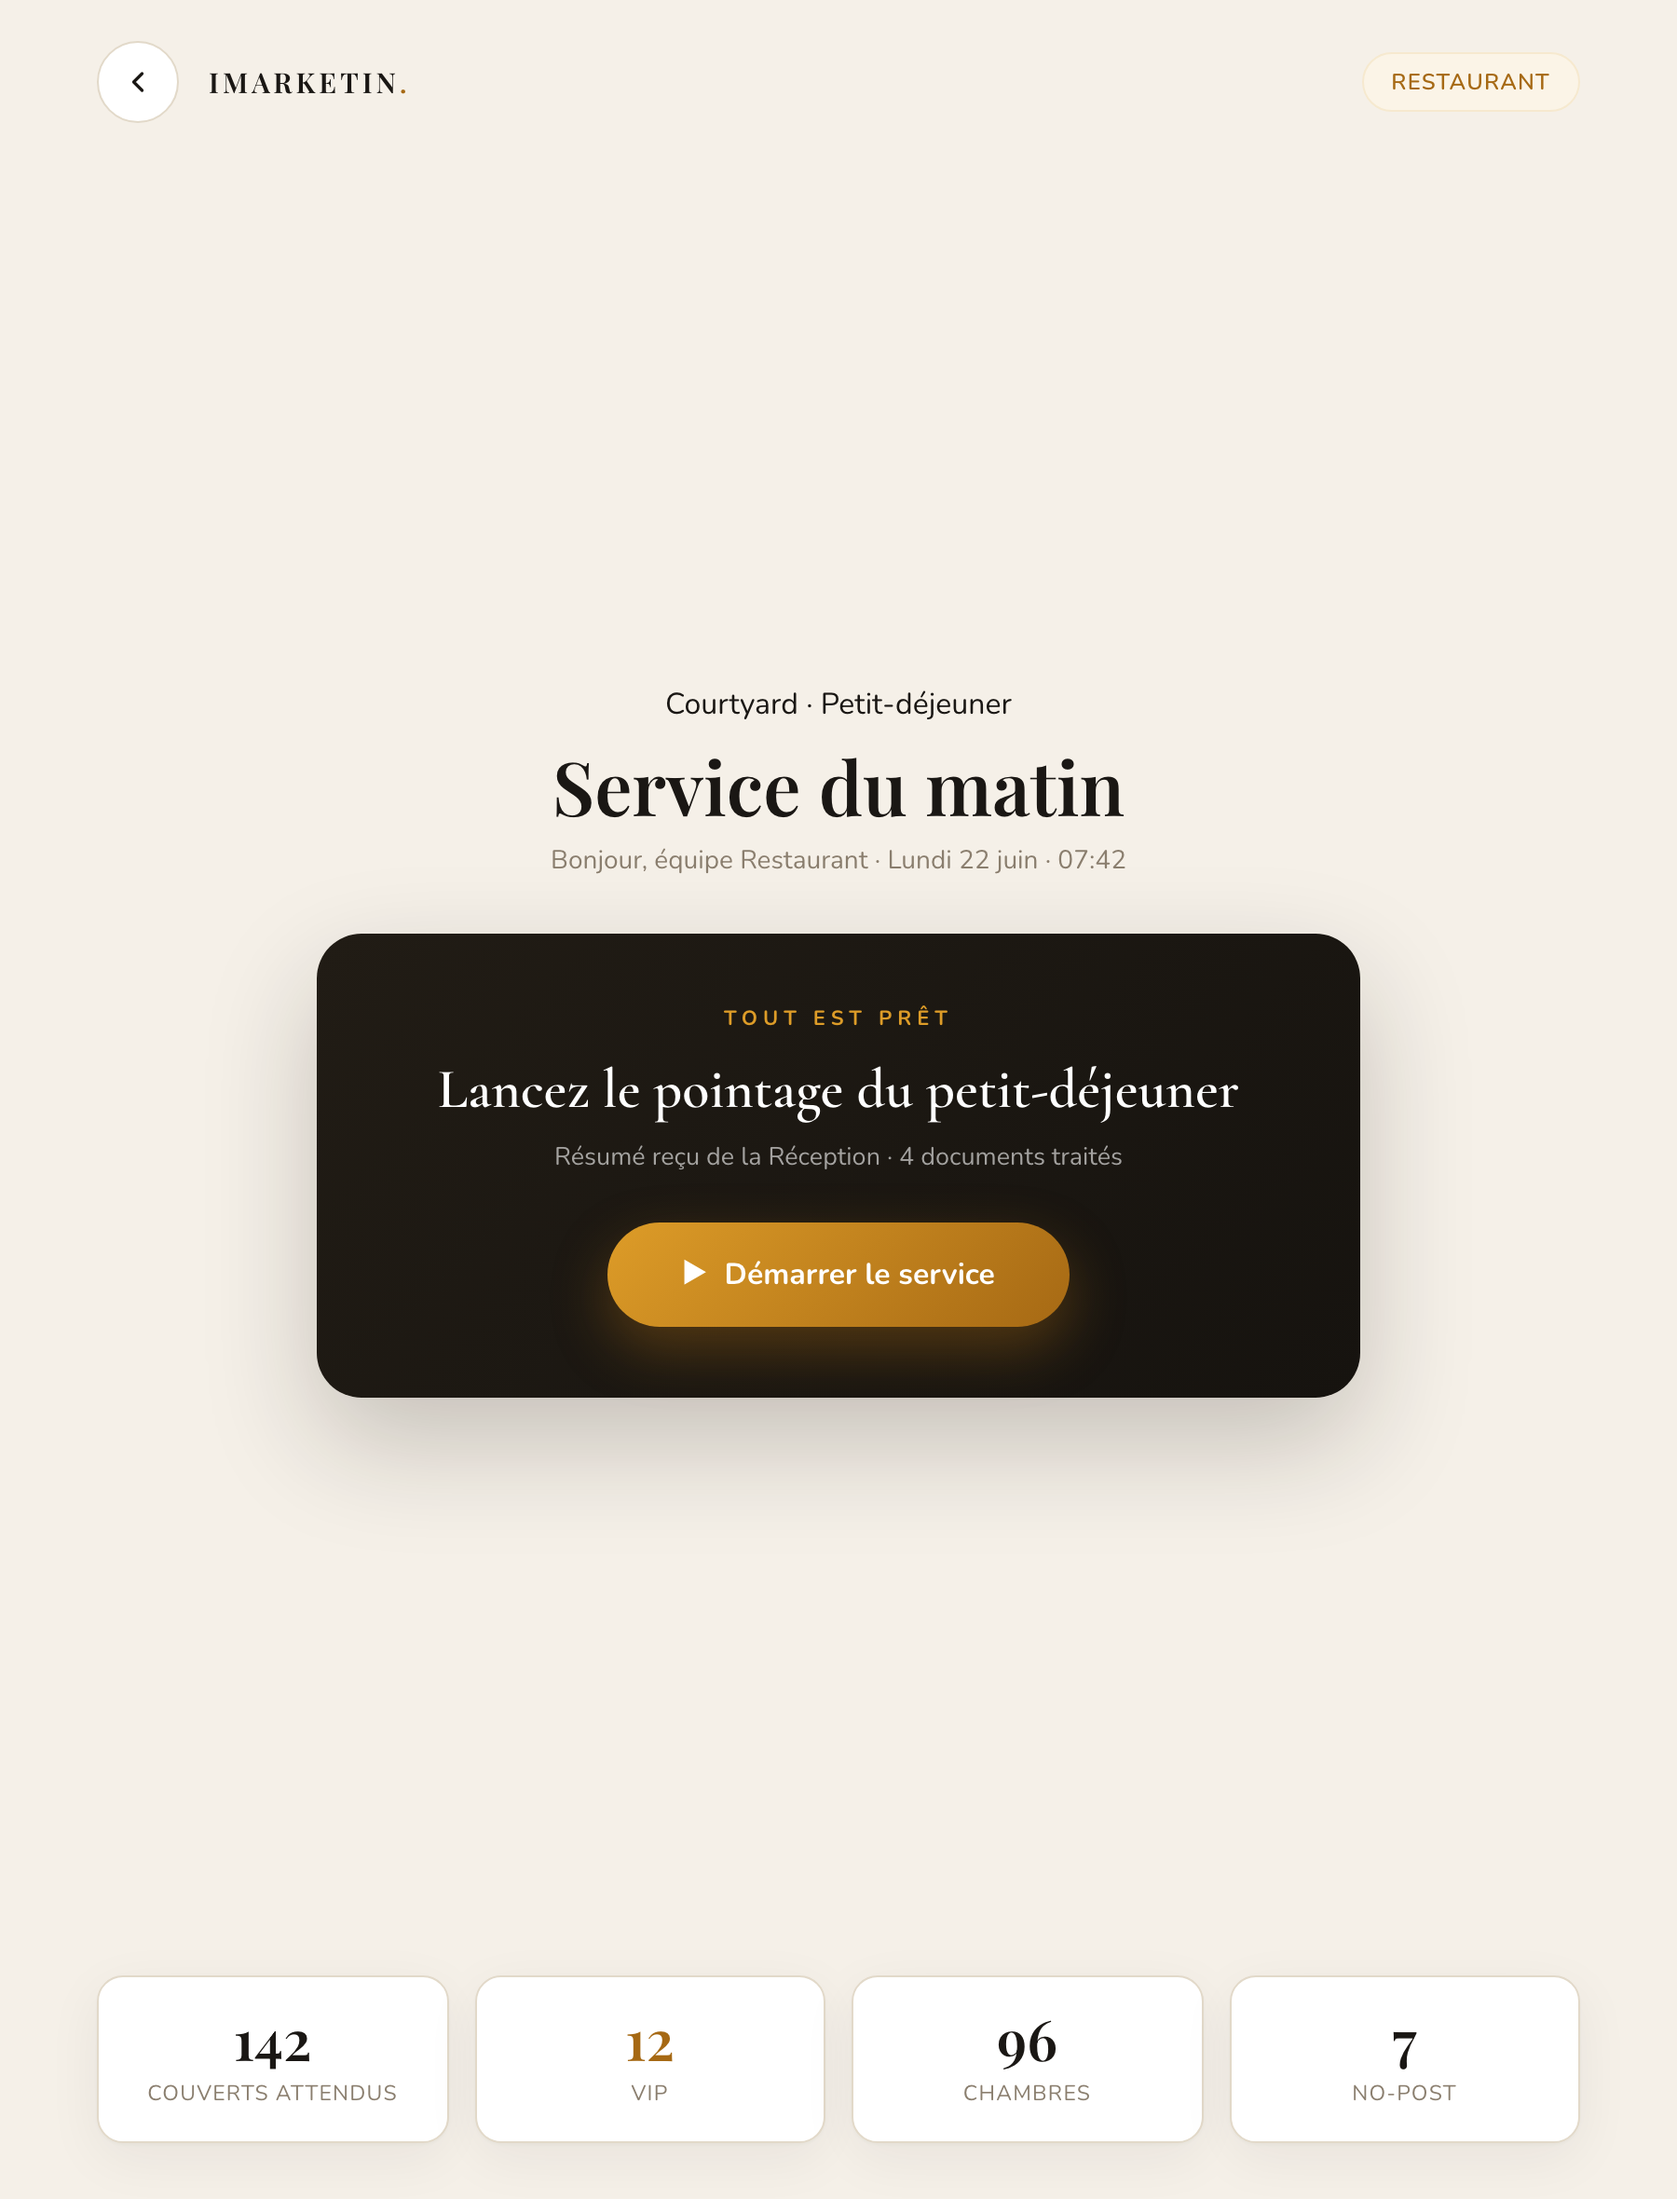
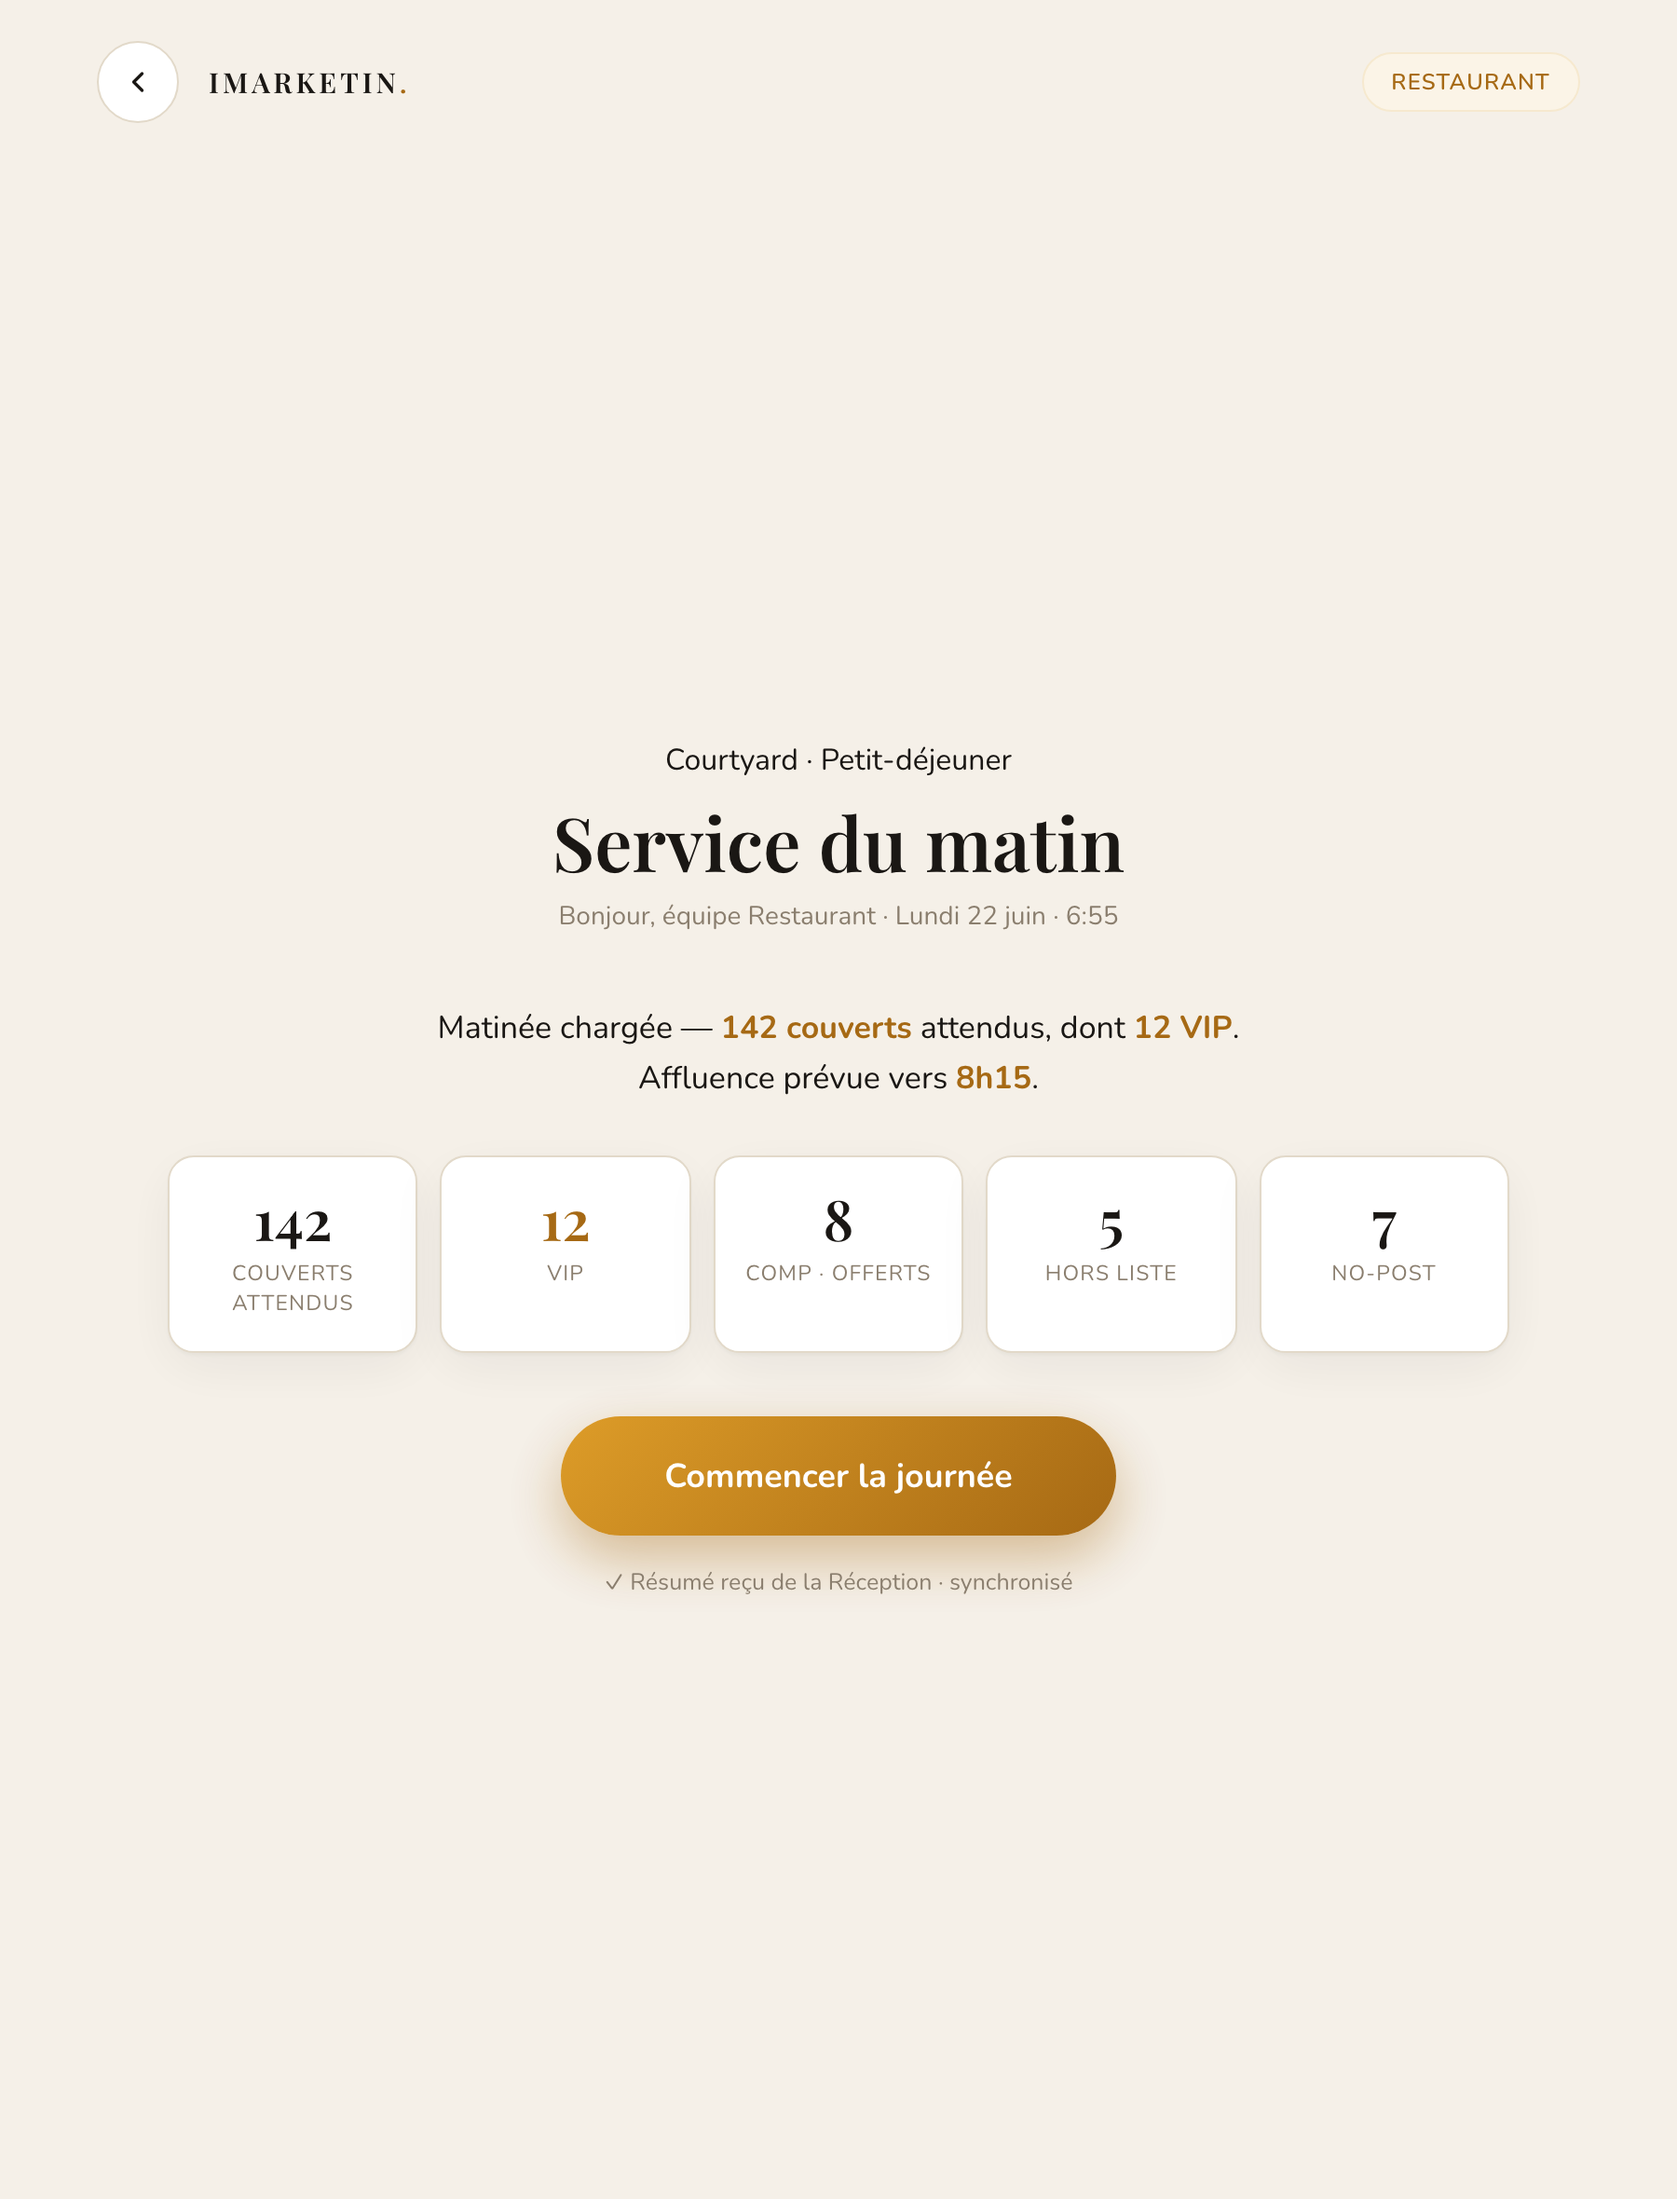
design(restaurant): simplified guided morning briefing
- metrics on top (Total · VIP · Comp · Hors liste · No-post), plain-French day brief
- removed dark CTA card -> single big 'Commencer la journée' button
- reassurance line; guided + non-tech-friendly

diff --git a/docs/reception-prototype-final.html b/docs/reception-prototype-final.html
@@ -416,12 +416,16 @@
   .rest-start{background:linear-gradient(135deg,var(--gold-light),var(--gold));color:#fff;border:none;border-radius:var(--radius-pill);padding:17px 40px;font-family:'Nunito',sans-serif;font-size:16px;font-weight:700;cursor:pointer;box-shadow:0 12px 30px rgba(166,105,20,.4);transition:transform .2s var(--ease),box-shadow .25s var(--ease);}
   .rest-start:hover{box-shadow:0 16px 40px rgba(166,105,20,.5);}
   .rest-start:active{transform:scale(.97);}
-  .rest-stats{display:grid;grid-template-columns:repeat(4,1fr);gap:14px;padding:18px 26px 30px;max-width:900px;margin:0 auto;width:100%;}
+  .rest-brief{font-family:'Nunito',sans-serif;font-size:17px;color:var(--ink);max-width:480px;margin:8px auto 2px;line-height:1.55;}
+  .rest-brief b{color:var(--gold);font-weight:800;}
+  .rest-stats{display:grid;grid-template-columns:repeat(5,1fr);gap:12px;margin:26px auto 28px;max-width:720px;width:100%;}
   .rstat{background:var(--white);border:1px solid var(--hairline);border-radius:var(--radius-card);padding:18px 16px;text-align:center;box-shadow:var(--shadow-soft);}
   .rstat-num{font-family:'Playfair Display',serif;font-weight:600;font-size:30px;color:var(--ink);line-height:1;}
   .rstat-num.gold{color:var(--gold);}
   .rstat-lab{font-size:11.5px;color:var(--taupe);margin-top:6px;text-transform:uppercase;letter-spacing:.6px;}
-  @media(max-width:640px){.rest-stats{grid-template-columns:1fr 1fr;}}
+  .rest-start.big{padding:20px 56px;font-size:18px;margin-top:6px;}
+  .rest-reassure{font-size:12.5px;color:var(--taupe);margin:16px 0 0;}
+  @media(max-width:680px){.rest-stats{grid-template-columns:repeat(3,1fr);}}
 
   /* ====== CONTACTS ====== */
   .searchbar{
@@ -770,19 +774,19 @@
       <div class="rest-body">
         <div class="eyebrow">Courtyard · Petit-déjeuner</div>
         <h1 class="rest-h1">Service du matin</h1>
-        <p class="rest-sub">Bonjour, équipe Restaurant · Lundi 22 juin · 07:42</p>
-        <div class="rest-cta-card">
-          <div class="rest-cta-eyebrow">Tout est prêt</div>
-          <h2>Lancez le pointage du petit-déjeuner</h2>
-          <p>Résumé reçu de la Réception · 4 documents traités</p>
-          <button class="rest-start" onclick="restStart()">▶&nbsp;&nbsp;Démarrer le service</button>
+        <p class="rest-sub">Bonjour, équipe Restaurant · Lundi 22 juin · 6:55</p>
+        <p class="rest-brief">Matinée chargée — <b>142 couverts</b> attendus, dont <b>12 VIP</b>.<br>Affluence prévue vers <b>8h15</b>.</p>
+
+        <div class="rest-stats">
+          <div class="rstat"><div class="rstat-num">142</div><div class="rstat-lab">Couverts attendus</div></div>
+          <div class="rstat"><div class="rstat-num gold">12</div><div class="rstat-lab">VIP</div></div>
+          <div class="rstat"><div class="rstat-num">8</div><div class="rstat-lab">Comp · offerts</div></div>
+          <div class="rstat"><div class="rstat-num">5</div><div class="rstat-lab">Hors liste</div></div>
+          <div class="rstat"><div class="rstat-num">7</div><div class="rstat-lab">No-post</div></div>
         </div>
-      </div>
-      <div class="rest-stats">
-        <div class="rstat"><div class="rstat-num">142</div><div class="rstat-lab">Couverts attendus</div></div>
-        <div class="rstat"><div class="rstat-num gold">12</div><div class="rstat-lab">VIP</div></div>
-        <div class="rstat"><div class="rstat-num">96</div><div class="rstat-lab">Chambres</div></div>
-        <div class="rstat"><div class="rstat-num">7</div><div class="rstat-lab">No-post</div></div>
+
+        <button class="rest-start big" onclick="restStart()">Commencer la journée</button>
+        <p class="rest-reassure">✓ Résumé reçu de la Réception · synchronisé</p>
       </div>
     </div>
   </section>
